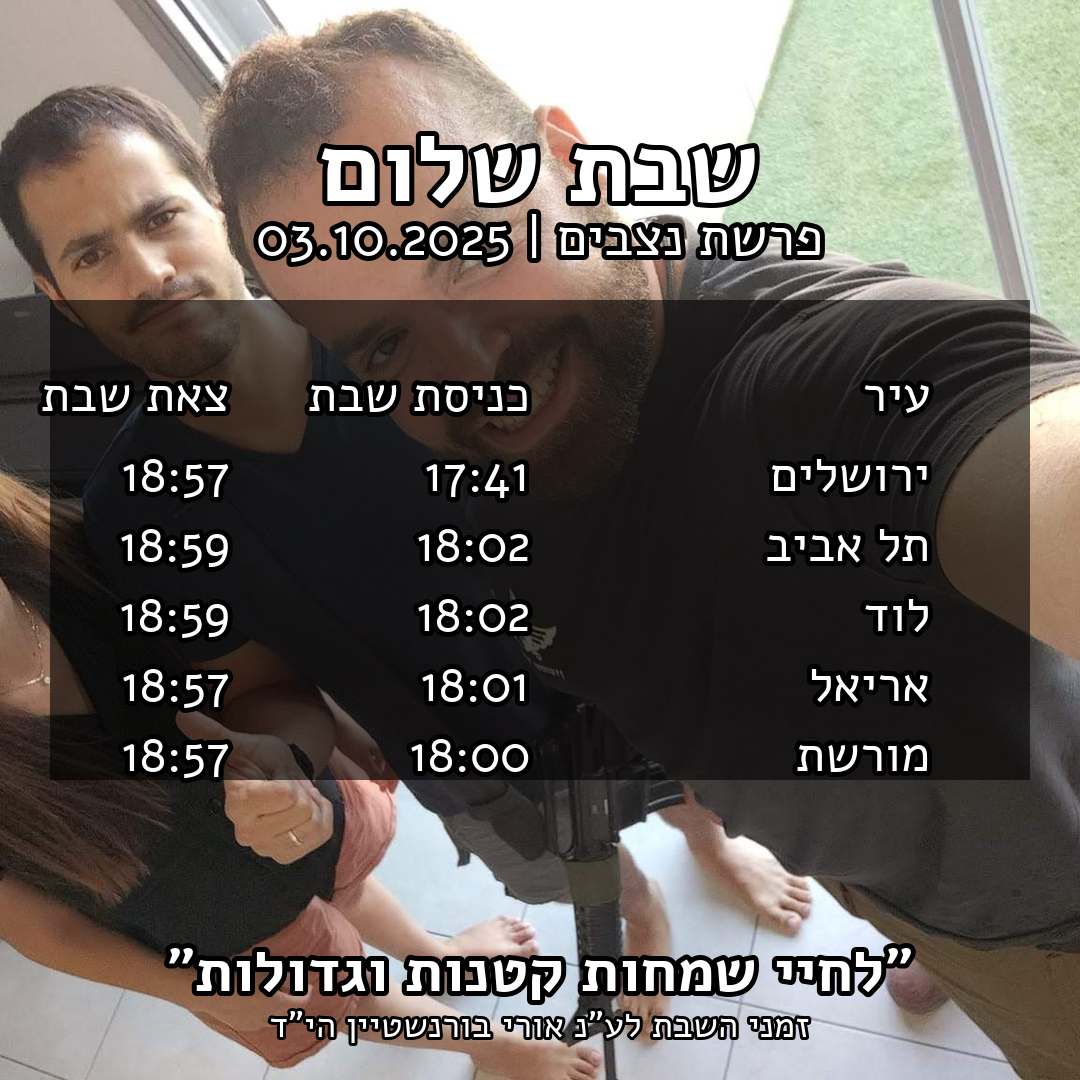
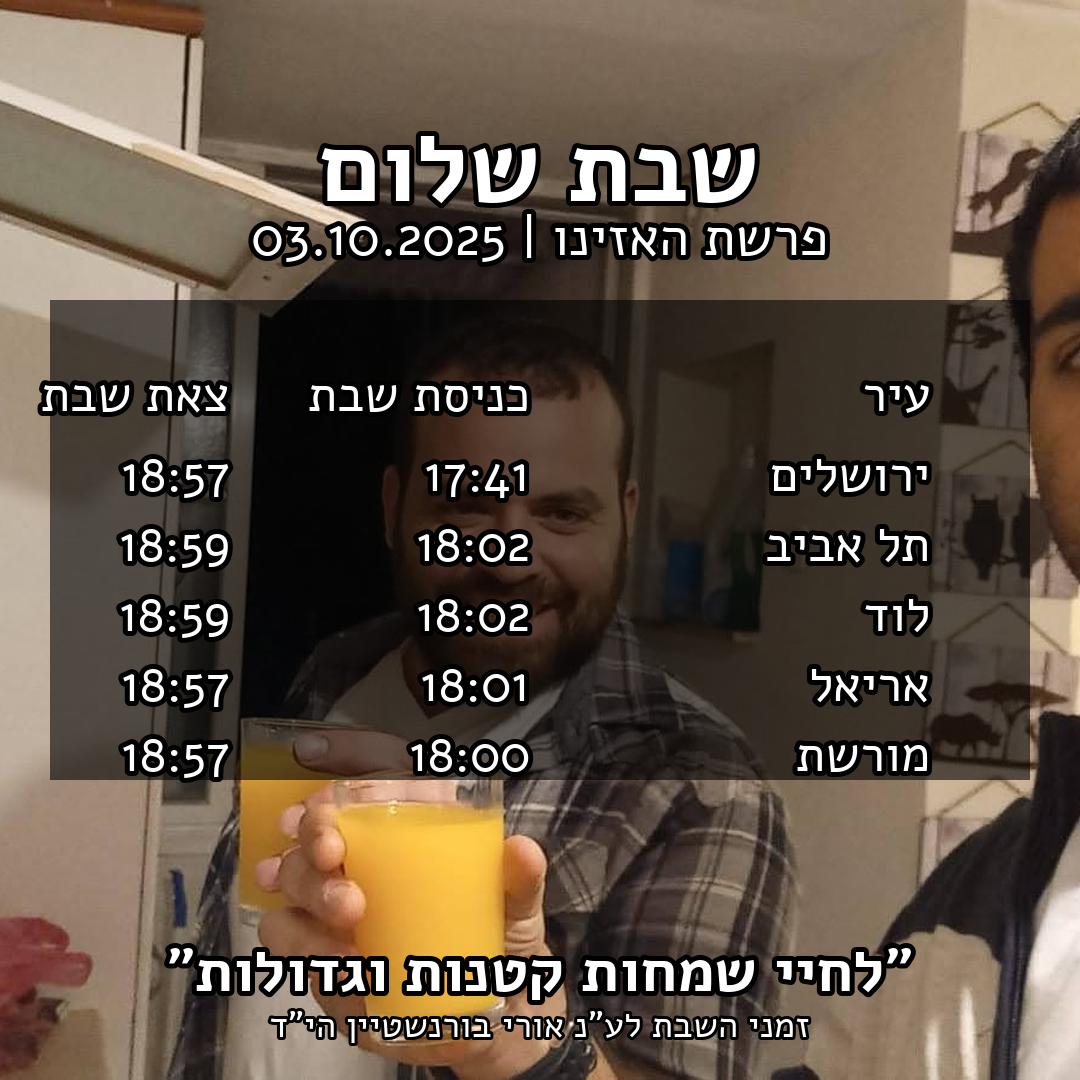
תיקון בעיית הפרשות - עכשיו הפרשות משתנות בהתאם לשבוע
תיקונים עיקריים:
- החלפת API של Hebcal מ-/shabbat ל-/hebcal הכללי לקבלת פרשות מדויקות
- תיקון בעיית קידוד: נורמליזציה של סוגי גרש שונים (Unicode 8217 -> 39)
- הוספת תרגומים נוספים לפרשות במילון PARASHA_TRANSLATION
- שיפור לוגיקת חיפוש פרשות - חיפוש מדויק ואז חיפוש קרוב
- הוספת תמיכה בכל וריאציות שמות הפרשות מה-API

תוצאות:
- פרשת האזינו מוצגת כעת בעברית במקום 'Ha'azinu'
- כל פרשה מוצגת בשם העברי הנכון
- הפרשות משתנות בהתאם לשבוע (נצבים -> וילך -> האזינו -> בראשית -> נח -> לך לך)
- זמני השבת מוצגים בזמן ישראל הנכון (17:59 במקום 14:19)

diff --git a/make_shabbat_posts.py b/make_shabbat_posts.py
@@ -24,21 +24,41 @@ IMG_SIZE = (1080, 1080)  # WhatsApp square
 
 # ========= FULL PARASHA TRANSLATION =========
 PARASHA_TRANSLATION = {
+    # ספר בראשית
     "Bereshit": "בראשית", "Noach": "נח", "Lech-Lecha": "לך לך", "Vayera": "וירא",
     "Chayei Sara": "חיי שרה", "Toldot": "תולדות", "Vayetzei": "ויצא",
     "Vayishlach": "וישלח", "Vayeshev": "וישב", "Miketz": "מקץ", "Vayigash": "ויגש",
-    "Vayechi": "ויחי", "Shemot": "שמות", "Vaera": "וארא", "Bo": "בא",
+    "Vayechi": "ויחי",
+
+    # ספר שמות
+    "Shemot": "שמות", "Vaera": "וארא", "Bo": "בא",
     "Beshalach": "בשלח", "Yitro": "יתרו", "Mishpatim": "משפטים", "Terumah": "תרומה",
     "Tetzaveh": "תצוה", "Ki Tisa": "כי תשא", "Vayakhel": "ויקהל", "Pekudei": "פקודי",
+
+    # ספר ויקרא
     "Vayikra": "ויקרא", "Tzav": "צו", "Shemini": "שמיני", "Tazria": "תזריע",
     "Metzora": "מצורע", "Achrei Mot": "אחרי מות", "Kedoshim": "קדושים",
-    "Emor": "אמור", "Behar": "בהר", "Bechukotai": "בחוקותי", "Bamidbar": "במדבר",
-    "Nasso": "נשא", "Beha'alotcha": "בהעלותך", "Shelach": "שלח", "Korach": "קרח",
-    "Chukat": "חוקת", "Balak": "בלק", "Pinchas": "פנחס", "Matot": "מטות",
-    "Masei": "מסעי", "Devarim": "דברים", "Vaetchanan": "ואתחנן", "Ekev": "עקב",
+    "Emor": "אמור", "Behar": "בהר", "Bechukotai": "בחוקותי",
+
+    # ספר במדבר
+    "Bamidbar": "במדבר", "Nasso": "נשא", "Beha'alotcha": "בהעלותך", "Shelach": "שלח",
+    "Korach": "קרח", "Chukat": "חוקת", "Balak": "בלק", "Pinchas": "פנחס",
+    "Matot": "מטות", "Masei": "מסעי",
+
+    # ספר דברים
+    "Devarim": "דברים", "Vaetchanan": "ואתחנן", "Ekev": "עקב",
     "Re'eh": "ראה", "Shoftim": "שופטים", "Ki Tetzei": "כי תצא", "Ki Tavo": "כי תבוא",
     "Nitzavim": "נצבים", "Vayelech": "וילך", "Ha'Azinu": "האזינו",
     "Vezot Haberakhah": "וזאת הברכה",
+
+    # וריאציות נוספות שעלולות להופיע ב-API
+    "Lech Lecha": "לך לך", "Chayei Sarah": "חיי שרה", "Vayeitzei": "ויצא",
+    "Ki Sisa": "כי תשא", "Acharei Mot": "אחרי מות", "Bechukosai": "בחוקותי",
+    "Beha'aloscha": "בהעלותך", "Shlach": "שלח", "Chukas": "חוקת",
+    "Matos": "מטות", "Mas'ei": "מסעי", "Va'eschanan": "ואתחנן",
+    "Re'e": "ראה", "Ki Seitzei": "כי תצא", "Ki Savo": "כי תבוא",
+    "Vayeilech": "וילך", "Haazinu": "האזינו", "Ha'azinu": "האזינו", "Ha'Azinu": "האזינו", "Ha'azinu": "האזינו",
+    "V'Zot HaBerachah": "וזאת הברכה", "Vzot Haberachah": "וזאת הברכה",
 }
 
 # ========= TEXT HELPERS =========
@@ -128,31 +148,84 @@ def get_parsha_from_hebcal(target_date: date) -> str:
     else:
         saturday = target_date + timedelta(days=days_until_saturday)
 
-    # Create date range around the Saturday
-    start_str = (saturday - timedelta(days=3)).isoformat()
-    end_str = (saturday + timedelta(days=3)).isoformat()
-
+    # Use the general Hebcal API to get the year's events and find the right parsha
+    year = saturday.year
     url = (
-        "https://www.hebcal.com/shabbat"
-        f"?cfg=json&latitude=31.778117828230577&longitude=35.23599222120022"  # Jerusalem coordinates for parsha
-        f"&tzid={TZID}&start={start_str}&end={end_str}"
+        f"https://www.hebcal.com/hebcal?v=1&cfg=json&maj=on&min=on&mod=on&nx=on"
+        f"&year={year}&month=x&ss=on&mf=on&c=on&geo=pos"
+        f"&latitude=31.778117828230577&longitude=35.23599222120022"
+        f"&tzid={TZID}&s=on"
     )
 
     try:
-        r = requests.get(url, timeout=20)
+        r = requests.get(url, timeout=30)
         r.raise_for_status()
         data = r.json()
 
+        # Find the parsha for our specific Saturday
+        target_date_str = saturday.isoformat()
+
         for item in data.get("items", []):
             if item.get("category") == "parashat":
-                parsha = item.get("title")
-                if parsha:
-                    # Clean up the parsha name and translate to Hebrew
-                    parsha_clean = parsha.replace("Parashat ", "").strip()
-                    for eng, heb in PARASHA_TRANSLATION.items():
-                        if eng.lower() == parsha_clean.lower() or eng in parsha_clean:
-                            return f"פרשת {heb}"
-                    return f"פרשת {parsha_clean}"
+                item_date = item.get("date", "")
+                # Check if this is the parsha for our Saturday
+                if item_date == target_date_str:
+                    parsha = item.get("title")
+                    if parsha:
+                        # Clean up the parsha name and translate to Hebrew
+                        parsha_clean = parsha.replace("Parashat ", "").strip()
+                        # Normalize different types of apostrophes
+                        parsha_clean = parsha_clean.replace("\u2019", "'").replace("\u2018", "'")
+
+
+                        # Try exact match first
+                        for eng, heb in PARASHA_TRANSLATION.items():
+                            if eng.lower() == parsha_clean.lower():
+                                return f"פרשת {heb}"
+
+                        # Try partial match (for cases like "Ha'azinu" vs "Ha'Azinu")
+                        for eng, heb in PARASHA_TRANSLATION.items():
+                            if eng.lower().replace("'", "").replace("-", "") == parsha_clean.lower().replace("'", "").replace("-", ""):
+                                # print(f"DEBUG: Found partial match: {eng} -> {heb}")
+                                return f"פרשת {heb}"
+
+
+                        return f"פרשת {parsha_clean}"
+
+        # If exact match not found, find the closest Saturday before our target
+        closest_parsha = None
+        closest_date = None
+
+        for item in data.get("items", []):
+            if item.get("category") == "parashat":
+                item_date_str = item.get("date", "")
+                if item_date_str:
+                    try:
+                        item_date = date.fromisoformat(item_date_str)
+                        # Find the parsha for the Saturday closest to but not after our target
+                        if item_date <= saturday:
+                            if closest_date is None or item_date > closest_date:
+                                closest_date = item_date
+                                closest_parsha = item.get("title")
+                    except:
+                        continue
+
+        if closest_parsha:
+            parsha_clean = closest_parsha.replace("Parashat ", "").strip()
+            # Normalize different types of apostrophes
+            parsha_clean = parsha_clean.replace("'", "'").replace("'", "'")
+            # Try exact match first
+            for eng, heb in PARASHA_TRANSLATION.items():
+                if eng.lower() == parsha_clean.lower():
+                    return f"פרשת {heb}"
+
+            # Try partial match
+            for eng, heb in PARASHA_TRANSLATION.items():
+                if eng.lower().replace("'", "").replace("-", "") == parsha_clean.lower().replace("'", "").replace("-", ""):
+                    return f"פרשת {heb}"
+
+            return f"פרשת {parsha_clean}"
+
     except Exception as e:
         print(f"Warning: Could not fetch parsha information for {target_date}: {e}")
 
